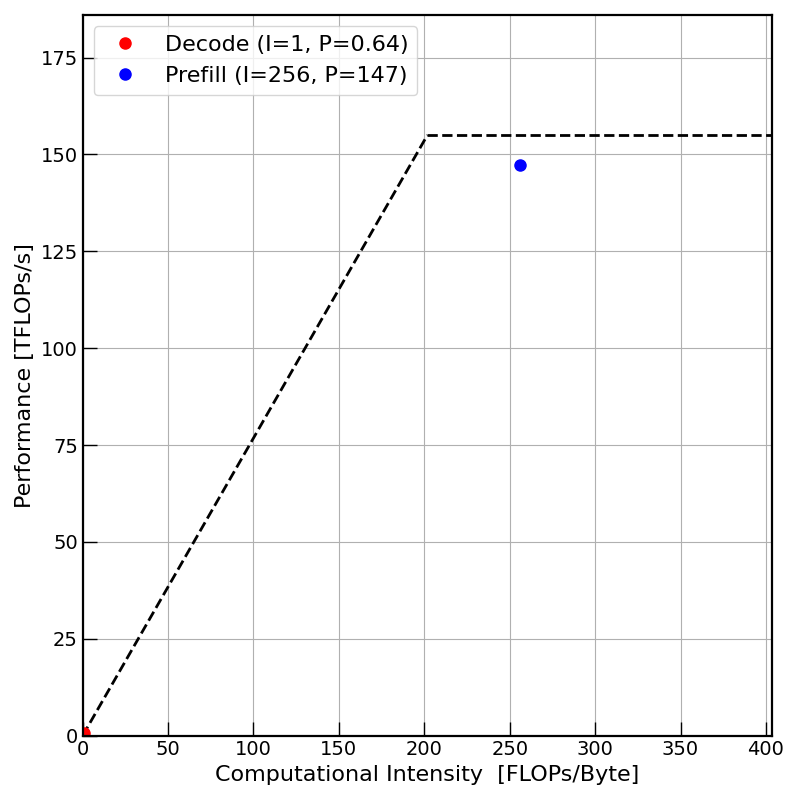
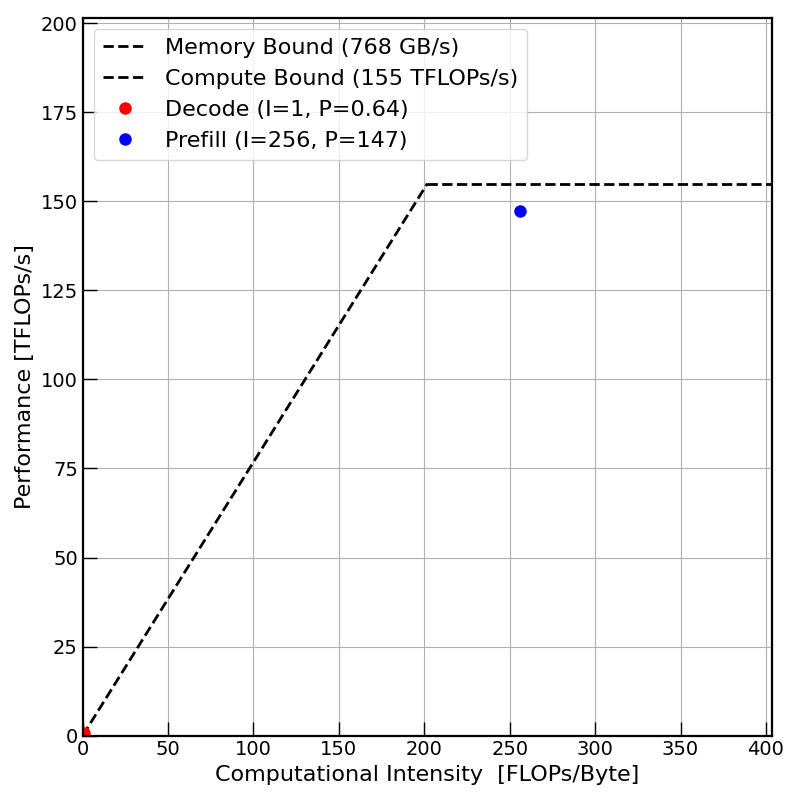
roofline

diff --git a/scripts/plot_roofline.py b/scripts/plot_roofline.py
@@ -64,7 +64,7 @@ def plot_roofline(bandwidth, peak, mem_unit=2, log=False):
         min_x = 0.0
         min_y = 0.0
         max_x = 2.0 * I_c
-        max_y = 1.2 * peak
+        max_y = 1.3 * peak
 
     x_memory_bound = [0.0, I_c]
     y_memory_bound = [0.0, peak]
@@ -112,6 +112,7 @@ def plot_roofline(bandwidth, peak, mem_unit=2, log=False):
         color="black",
         linewidth=2,
         linestyle="dashed",
+        label="Memory Bound (%.3g GB/s)" % (bandwidth),
     )
     ax.plot(
         x_compute_bound,
@@ -119,6 +120,7 @@ def plot_roofline(bandwidth, peak, mem_unit=2, log=False):
         color="black",
         linewidth=2,
         linestyle="dashed",
+        label="Compute Bound (%.3g TFLOPs/s)" % (peak),
     )
 
     ax.plot(
